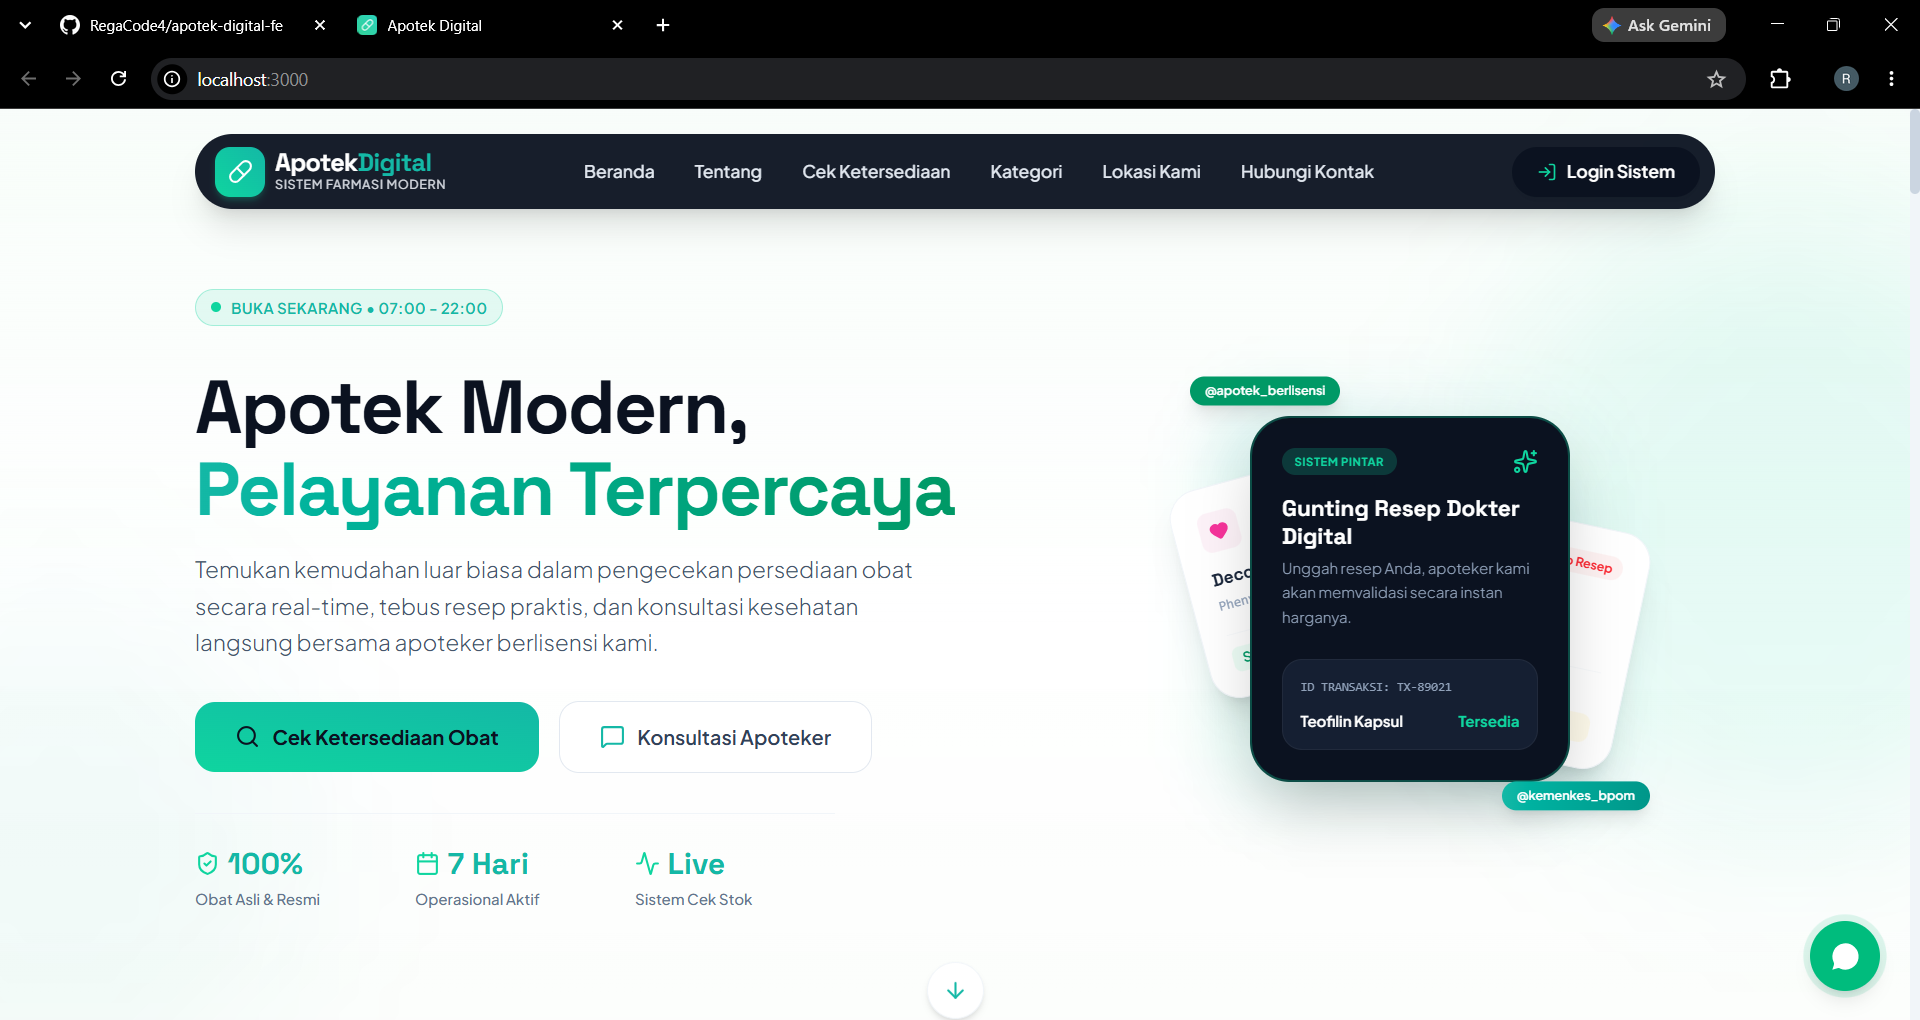
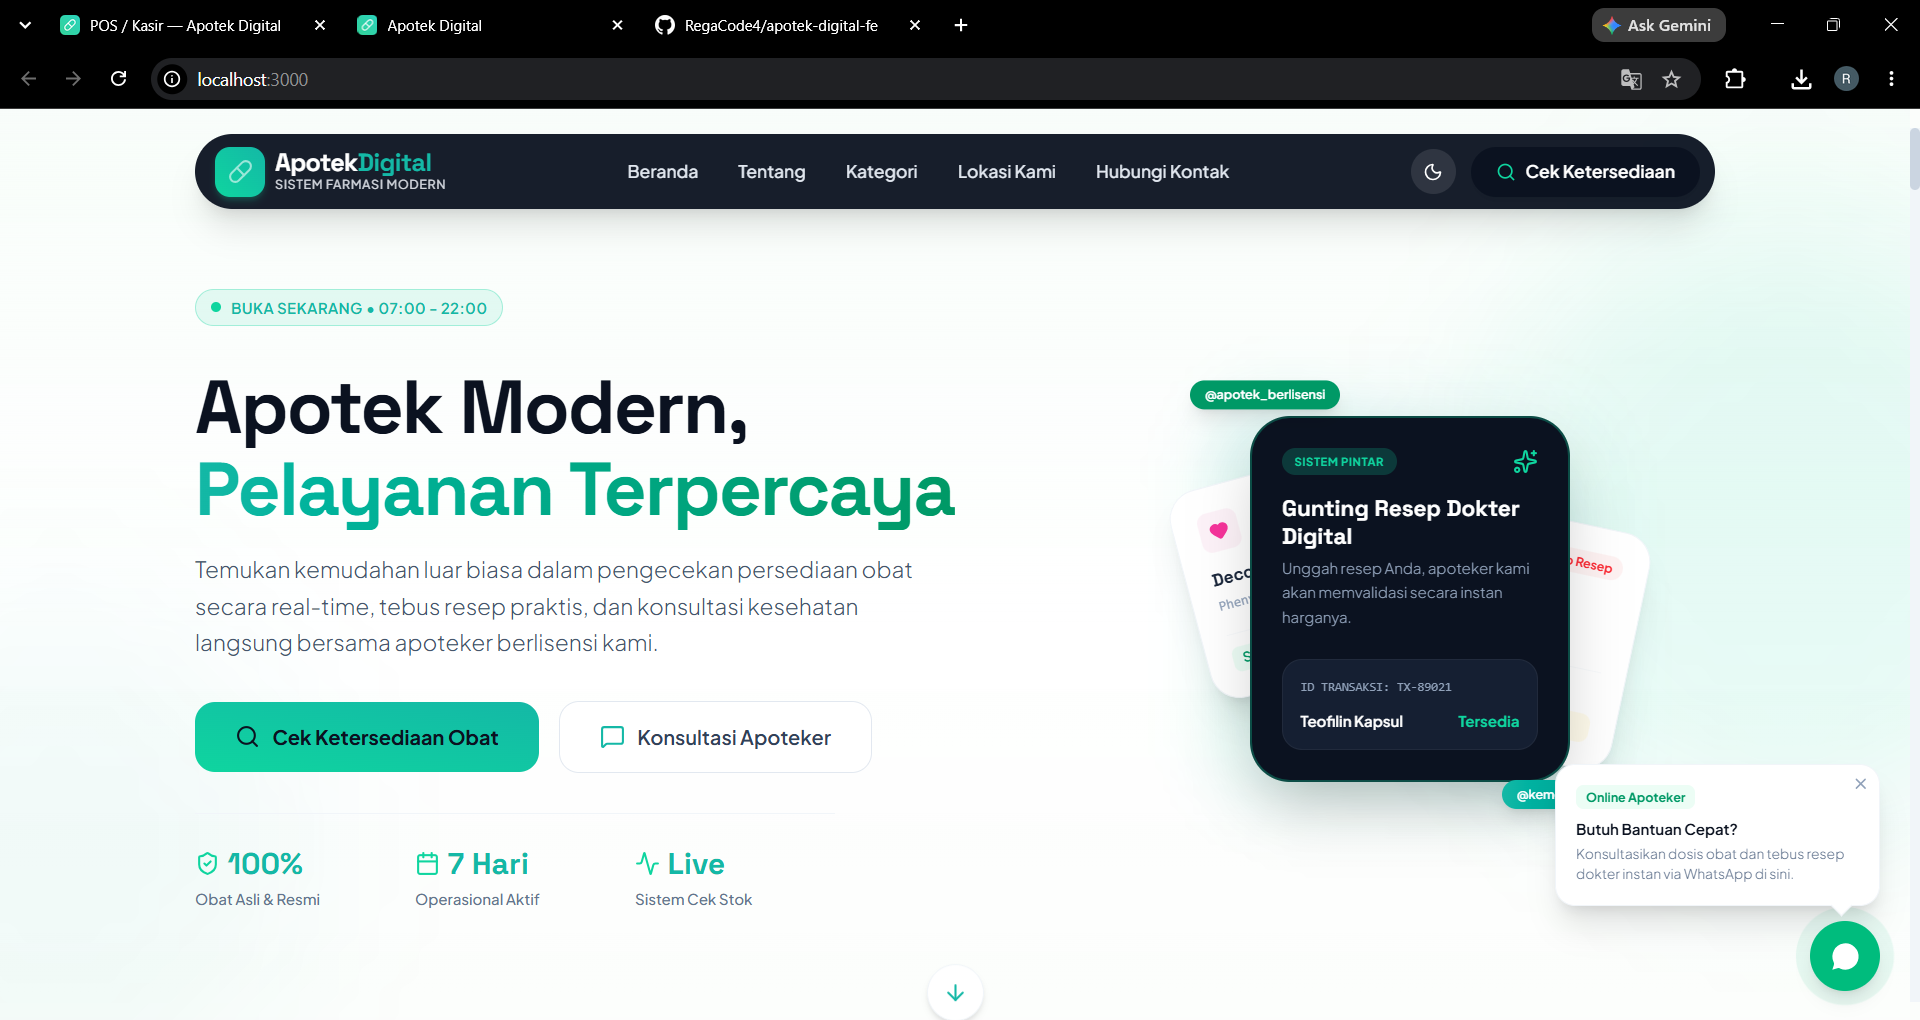
docs: memperbarui dokumentasi proyek (JSDoc, context, workflow, README) dan gitignore

diff --git a/src/components/MedicineAvailability.tsx b/src/components/MedicineAvailability.tsx
@@ -30,13 +30,20 @@ interface MedicineAvailabilityProps {
   refetch: () => Promise<void>;
 }
 
-// Helper to compute stock status based on real DB properties (stock and min_stock)
+/**
+ * Helper to compute stock status based on real DB properties (stock and min_stock)
+ * Calculates status by comparing current stock against minimum stock threshold.
+ */
 const getStockStatus = (med: Medicine): "tersedia" | "menipis" | "habis" => {
   if (med.stock === 0) return "habis";
   if (med.stock <= med.min_stock) return "menipis";
   return "tersedia";
 };
 
+/**
+ * Medicine Availability Section Component
+ * Displays a searchable, filterable grid of medicine inventory with pagination.
+ */
 export default function MedicineAvailability({
   selectedCategory,
   setSelectedCategory,
@@ -88,6 +95,7 @@ export default function MedicineAvailability({
     });
   }, [medicines, searchQuery, selectedCategory, prescriptionFilter]);
 
+  // Resets all search and filter states back to default values
   const handleResetFilters = () => {
     setSearchQuery("");
     setSelectedCategory("semua");

diff --git a/src/components/Categories.tsx b/src/components/Categories.tsx
@@ -15,14 +15,22 @@ interface CategoriesProps {
   medicines?: Medicine[];
 }
 
+// Map of icon names to actual Lucide component for dynamic rendering
 const iconMap: Record<string, LucideIcon> = {
   Pill, HeartPulse, Brain, ShieldAlert, Wind, FlaskConical, Ribbon, Hand,
   Bone, Eye, Stethoscope, Droplet, Bug, Package, Sparkles, LayoutGrid,
 };
 
+/**
+ * Categories Section Component
+ * Displays medicine categories in a bento grid format.
+ * Allows users to select a category which will smoothly scroll to the availability section.
+ */
 export default function Categories({ selectedCategory, setSelectedCategory, medicines = [] }: CategoriesProps) {
+  // Build category statistics based on current medicines data
   const categories = buildCategories(medicines);
 
+  // Handles clicking a category card: updates selected category and scrolls to search section
   const handleCategoryClick = (categoryId: string) => {
     setSelectedCategory(categoryId);
     const element = document.querySelector('#cek-ketersediaan');

diff --git a/src/components/Navbar.tsx b/src/components/Navbar.tsx
@@ -11,8 +11,14 @@ interface NavbarProps {
   toggleDark: () => void;
 }
 
+/**
+ * Main Navigation Bar Component
+ * Features a dynamic scrolling effect, mobile menu toggle, and dark mode switch.
+ */
 export default function Navbar({ isDark, toggleDark }: NavbarProps) {
+  // State to track if user has scrolled down (for navbar visual transition)
   const [isScrolled, setIsScrolled] = useState(false);
+  // State to manage mobile menu visibility
   const [isMobileMenuOpen, setIsMobileMenuOpen] = useState(false);
 
   const panelInitial = { opacity: 0, height: 0 };
@@ -28,6 +34,7 @@ export default function Navbar({ isDark, toggleDark }: NavbarProps) {
     return () => window.removeEventListener("scroll", handleScroll);
   }, []);
 
+  // Array of navigation links for both desktop and mobile menus
   const navLinks = [
     { name: "Beranda", href: "#beranda" },
     { name: "Tentang", href: "#tentang" },
@@ -36,6 +43,7 @@ export default function Navbar({ isDark, toggleDark }: NavbarProps) {
     { name: "Hubungi Kontak", href: "#kontak" },
   ];
 
+  // Helper to smoothly scroll to a section on the page based on its ID
   const handleScrollToSegment = (
     e: React.MouseEvent<HTMLAnchorElement>,
     href: string,

diff --git a/src/services/api.ts b/src/services/api.ts
@@ -7,6 +7,9 @@ import { Medicine } from "../data/mockData";
 const API_BASE =
   (import.meta as any).env?.VITE_API_BASE_URL || "http://localhost:8000";
 
+/**
+ * Custom Error class for handling API-specific errors with HTTP status codes.
+ */
 export class ApiError extends Error {
   status?: number;
   constructor(message: string, status?: number) {
@@ -16,6 +19,11 @@ export class ApiError extends Error {
   }
 }
 
+/**
+ * Fetches the latest medicine inventory data from the backend API.
+ * Maps the raw database response into standard `Medicine` objects.
+ * Throws an `ApiError` if the request fails or format is invalid.
+ */
 export async function fetchMedicines(): Promise<Medicine[]> {
   try {
     const url = `${API_BASE}/api/medicines`;

diff --git a/src/components/LocationSection.tsx b/src/components/LocationSection.tsx
@@ -7,6 +7,10 @@ import { MapPin, Navigation, Map, Compass, ExternalLink } from "lucide-react";
 import { pharmacyProfile } from "../data/mockData";
 import SectionReveal from "./ui/SectionReveal";
 
+/**
+ * Location Section Component
+ * Displays the physical pharmacy address, transit information, and an embedded Google Maps view.
+ */
 export default function LocationSection() {
   return (
     <section id="lokasi" className="py-20 md:py-28 bg-white dark:bg-navy-dark relative">

diff --git a/README.md b/README.md
@@ -18,6 +18,8 @@
 ## Features
 
 - **Modern UI/UX**: Built with premium design aesthetics, carefully curated color palettes, and a highly interactive interface.
+- **Dark Mode Support**: System-aware and user-toggleable dark mode tailored with custom styling.
+- **Real-Time Stock Checker**: Live integration with backend API to display available, low, and out-of-stock medicines.
 - **Micro-Animations**: Smooth interactions and transitions using GSAP and Motion for an engaging user experience.
 - **Fast & Responsive**: Fully responsive layout ensuring a great experience across desktop, tablet, and mobile devices.
 - **Robust Form Handling**: Efficient and type-safe form validation using React Hook Form.
@@ -40,6 +42,7 @@ Follow these instructions to set up and run the project locally.
 
 - Node.js (v18 or higher recommended)
 - npm, yarn, pnpm, atau bun
+- Laravel Backend API (running on `http://localhost:8000` by default)
 
 ### Installation
 
@@ -58,7 +61,13 @@ Follow these instructions to set up and run the project locally.
    npm install
    ```
 
-4. **Start the development server:**
+4. **Environment Setup:**
+   Create a `.env` file in the root directory (if not exists) and configure your API URL:
+   ```bash
+   VITE_API_BASE_URL=http://localhost:8000
+   ```
+
+5. **Start the development server:**
    ```bash
    npm run dev
    ```